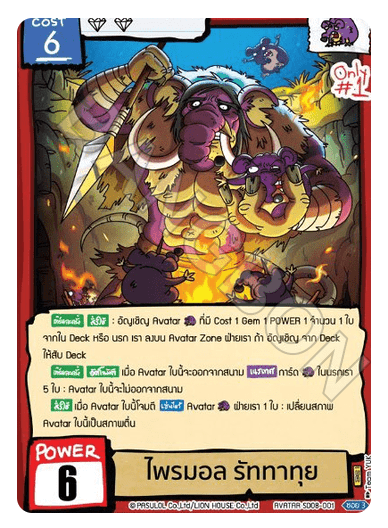
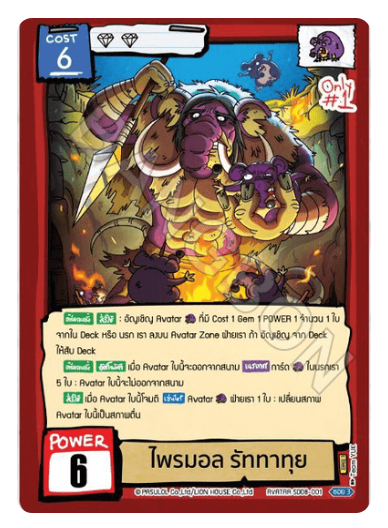
fix(images): classify by corner alpha; force-shrink SD08-001
SD08 full-bleed renders put content on the full-canvas grid, so
carving cut real art (SD08-001/002 badges at the canvas edge).
Classifier now distinguishes bleed prints (square opaque corners ->
carve) from cut-card renders (self-rounded corners -> shrink);
SD08-001 is square-cornered but oversized-grid, handled by an explicit
override. Adds scripts/validate-geometry.ts landmark checker.

Verified against old-repo baselines: standard cards land at gem-bar
(43,309), Life at (46,291), PR/SCR full-art at (20,348) - all
matching their pre-existing counterparts.

diff --git a/scripts/normalize-cards.ts b/scripts/normalize-cards.ts
@@ -33,21 +33,28 @@ function coverage(x: number, y: number): number {
 const mask = new Float32Array(W * H);
 for (let y = 0; y < H; y++) for (let x = 0; x < W; x++) mask[y * W + x] = coverage(x, y);
 
+// full-bleed square-corner files whose content is nevertheless on the oversized grid —
+// the corner heuristic cannot see this; verified per-file against set siblings
+const FORCE_SHRINK = new Set(["SD08-001.png"]);
+
 function classify(p: PNG): "keep" | "carve" | "shrink" {
   const A = (x: number, y: number) => p.data[(y * p.width + x) * 4 + 3];
   const midY = p.height >> 1;
   let margin = 0;
   while (margin < 60 && A(margin, midY) < 128) margin++;
-  // full-bleed re-renders (margin <= 1) keep the template's content grid — always carve, never rescale;
-  // narrow-margin renders (2..7) have an oversized face and need shrinking into the template
   if (margin >= 8) return "keep";
-  return margin <= 1 ? "carve" : "shrink";
+  // square opaque corners = print-with-bleed, content sits on the template grid -> carve, never rescale.
+  // transparent (self-rounded) corners = render of the cut card, content fills the canvas -> shrink to fit.
+  const opaqueCorners =
+    (A(2, 2) >= 128 ? 1 : 0) + (A(p.width - 3, 2) >= 128 ? 1 : 0) +
+    (A(2, p.height - 3) >= 128 ? 1 : 0) + (A(p.width - 3, p.height - 3) >= 128 ? 1 : 0);
+  return opaqueCorners >= 2 ? "carve" : "shrink";
 }
 
-export function normalize(buf: Buffer): { out: Buffer; treatment: string } {
+export function normalize(buf: Buffer, name = ""): { out: Buffer; treatment: string } {
   let p = PNG.sync.read(buf);
   if (p.width !== W || p.height !== H) p = PNG.sync.read(resize(buf, W, H));
-  const treatment = classify(p);
+  const treatment = FORCE_SHRINK.has(path.basename(name)) ? "shrink" : classify(p);
   if (treatment === "keep") return { out: PNG.sync.write(p), treatment };
   if (treatment === "shrink") {
     const scaled = PNG.sync.read(resize(PNG.sync.write(p), RECT.w, RECT.h));
@@ -71,7 +78,7 @@ if (process.argv[1] && process.argv[1].endsWith("normalize-cards.ts")) {
   );
   const counts: Record<string, number> = {};
   for (const file of targets) {
-    const { out, treatment } = normalize(fs.readFileSync(file));
+    const { out, treatment } = normalize(fs.readFileSync(file), file);
     fs.writeFileSync(file, out);
     counts[treatment] = (counts[treatment] ?? 0) + 1;
   }

diff --git a/scripts/validate-geometry.ts b/scripts/validate-geometry.ts
@@ -1,0 +1,35 @@
+// Validate normalized card geometry against the repo template.
+// Usage: pnpm tsx validate-geometry.ts <dir> [baseline-dir]
+import * as fs from "node:fs";
+import * as path from "node:path";
+import { PNG } from "pngjs";
+
+const dir = process.argv[2];
+
+// landmark: white gem-bar / cost-row region bbox in the top band
+function topWhiteBar(p: PNG) {
+  let x0 = 9999, x1 = -1, y0 = 9999, y1 = -1;
+  for (let y = 20; y < 115; y++) {
+    for (let x = 20; x < 368; x++) {
+      const i = (y * p.width + x) * 4;
+      if (p.data[i] > 235 && p.data[i + 1] > 235 && p.data[i + 2] > 235 && p.data[i + 3] > 200) {
+        if (x < x0) x0 = x; if (x > x1) x1 = x; if (y < y0) y0 = y; if (y > y1) y1 = y;
+      }
+    }
+  }
+  return x1 < 0 ? null : { x: x0, y: y0, w: x1 - x0 + 1, h: y1 - y0 + 1 };
+}
+
+let pass = 0, noBar = 0;
+const fails: string[] = [];
+for (const f of fs.readdirSync(dir).filter((f) => f.endsWith(".png"))) {
+  const p = PNG.sync.read(fs.readFileSync(path.join(dir, f)));
+  if (p.width !== 388 || p.height !== 528) { fails.push(`${f}: size ${p.width}x${p.height}`); continue; }
+  const bar = topWhiteBar(p);
+  if (!bar) { noBar++; continue; } // Life cards / full-art have no gem bar
+  // template geometry: bar at x 36..47, width 300..316 (old sets measure 43/309, text-box cards 36/311)
+  if (bar.x >= 33 && bar.x <= 50 && bar.w >= 295 && bar.w <= 320) pass++;
+  else fails.push(`${f}: bar x=${bar.x} w=${bar.w}`);
+}
+console.log(`gem-bar geometry: ${pass} pass, ${noBar} no-bar (life/full-art), ${fails.length} FAIL`);
+if (fails.length) console.log(fails.join("\n"));
